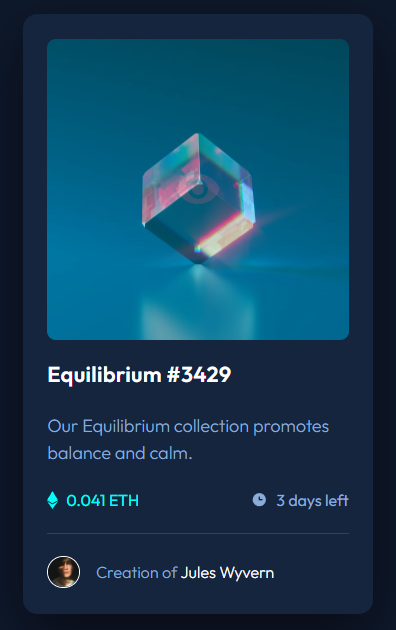
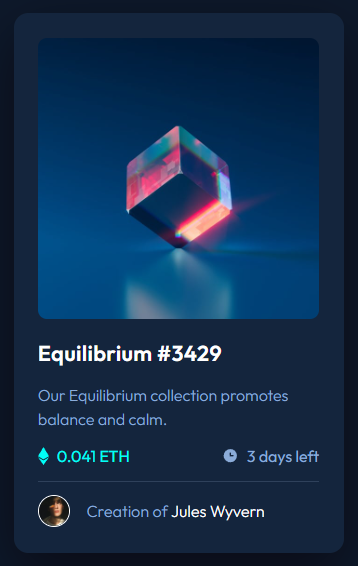
fix: Accessbility bugs
* fix: NFT - Needed an `h1` for accessibility; wrapped around product name link.
* fix: Product - Changed sale price from `h3` to `b`.

diff --git a/NFT-Preview-Card-Component/index.html b/NFT-Preview-Card-Component/index.html
@@ -25,7 +25,7 @@
     </span>
 
     <div class="content">
-      <a class="product-name" href="#">Equilibrium #3429</a>
+      <h1><a class="product-name" href="#">Equilibrium #3429</a></h1>
     
       <p>Our Equilibrium collection promotes balance and calm.</p>
     

diff --git a/Product-Preview-Card-Component/index.html b/Product-Preview-Card-Component/index.html
@@ -31,7 +31,7 @@
       </p>
 
       <span class="prices">
-        <h3 class="sale-price">$149.99</h3>
+        <b class="sale-price">$149.99</b>
         <span class="full-price">$169.99</span>
       </span>
 

diff --git a/NFT-Preview-Card-Component/style.css b/NFT-Preview-Card-Component/style.css
@@ -89,7 +89,7 @@ img {
 }
 
 .product-name {
-  font-size: 1.2em;
+  font-size: 0.6em;
   font-weight: bold;
   color: var(--white);
   letter-spacing: 0.4px;
